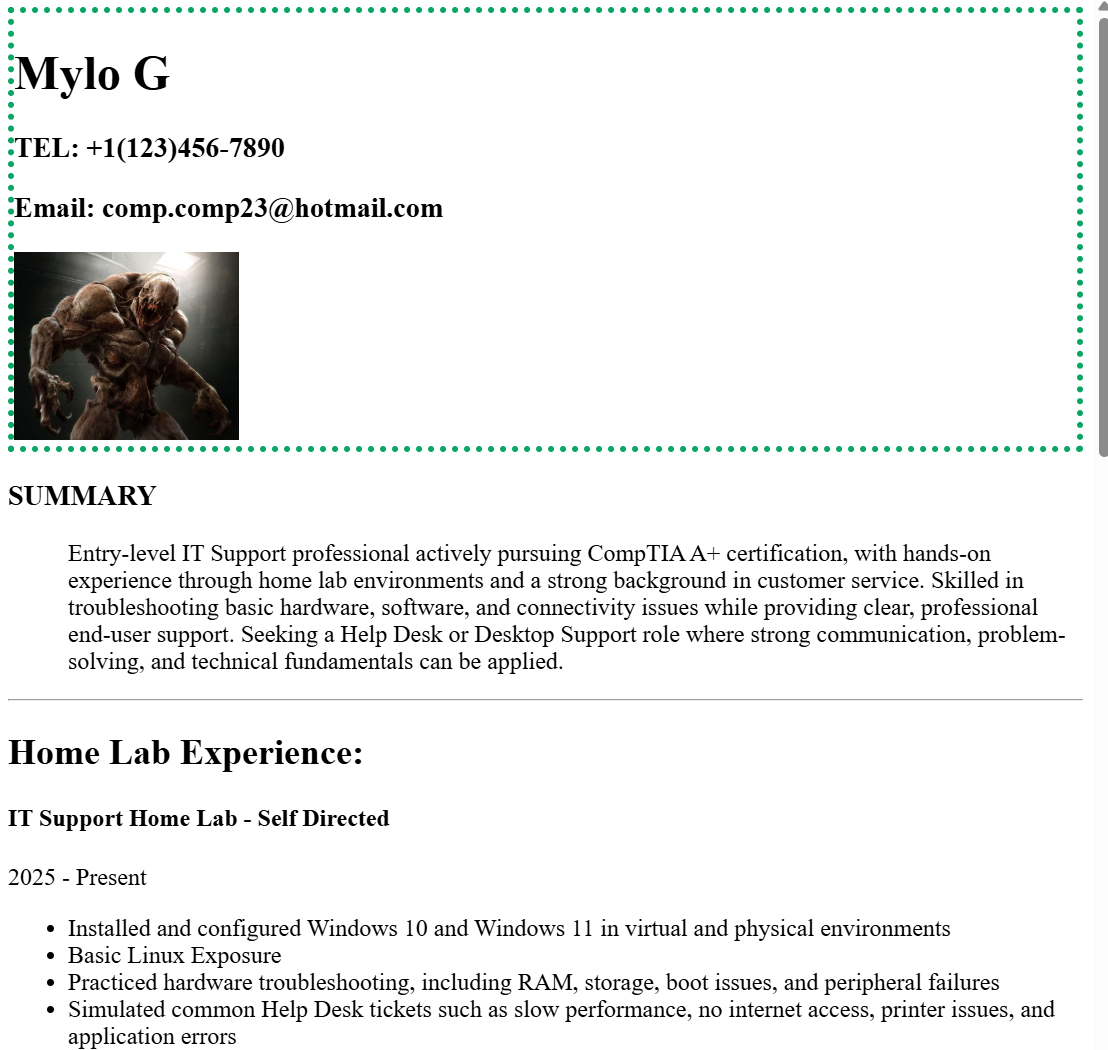
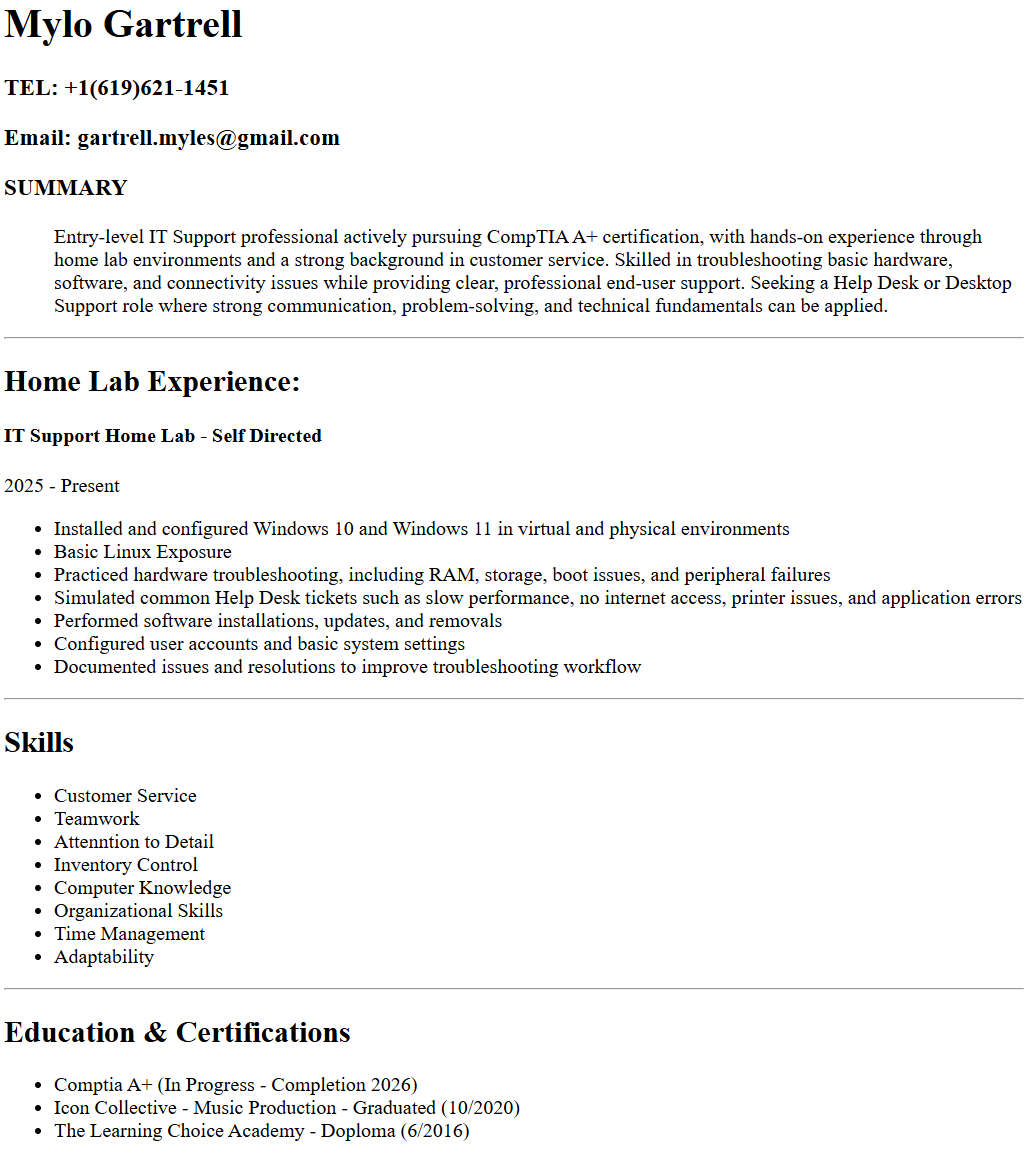
Add files via upload

diff --git a/Public/resume.html b/Public/resume.html
@@ -5,11 +5,10 @@
     <title>Resume</title>
 </head>
 <body>
-    <div style="border: 4px dotted rgb(7, 166, 100);">
-        <h1>Mylo G</h1> 
-        <h3><p>TEL: +1(123)456-7890</p></h3> 
-        <h3><p>Email: comp.comp23@hotmail.com</p></h3> 
-        <a href="https://www.youtube.com/watch?v=x_7zkQO0lPs&list=RDVeTagndUtSs&index=5"> <img src="./HellKnight.jpg" height="125" alt="HellKnight from doom 3"/> </a> 
+    <div>
+        <h1>Myles Gartrell</h1> 
+        <h3><p>TEL: +1(619)621-1451</p></h3> 
+        <h3><p>Email: gartrell.myles@gmail.com</p></h3>  
     </div>
 
     <h3>SUMMARY</h3>
@@ -17,7 +16,7 @@
     <!--Summary-->
     <ol>
         <p> 
-           Entry-level IT Support professional actively pursuing CompTIA A+ certification, with hands-on experience through home lab environments and a strong background in customer service. Skilled in troubleshooting basic hardware, software, and connectivity issues while providing clear, professional end-user support. Seeking a Help Desk or Desktop Support role where strong communication, problem-solving, and technical fundamentals can be applied.
+        Entry-level IT Support professional actively pursuing CompTIA A+ certification, with hands-on experience through home lab environments and a strong background in customer service. Skilled in troubleshooting basic hardware, software, and connectivity issues while providing clear, professional end-user support. Seeking a Help Desk or Desktop Support role where strong communication, problem-solving, and technical fundamentals can be applied.
         </p>
     </ol>
     <hr/>
@@ -59,7 +58,7 @@
     <!--Education-->
     <h2>Education & Certifications</h2>
     <ul>
-        <li>Comptia A+ (In Progress - Completion 2026)</li>
+        <li>Comptia A+ (In Progress - Completion August 2026)</li>
         <li>Icon Collective - Music Production - Graduated (10/2020)</li>
         <li>The Learning Choice Academy - Doploma (6/2016)</li>
     </ul>
@@ -88,7 +87,7 @@
         <li>Resolved order discrepancies and customer concerns</li>
         <li>Prioritized tasks to meet strict deadlines</li>
     </ul>
-     
+    
     <h4>Walmart - Deli/Bakery</h4>
     <p>
         2024 - 2024 - Oklahoma City, OK
@@ -124,7 +123,7 @@
 
     <footer>
         <a href="https://spacewalkermusic.github.io/html-portfolio/">Website</a>
-        <p>© 2026 Mylo G. All rights reserved.</p>
+        <p>© 2026 Myles G. All rights reserved.</p>
     </footer>
 </body>
 </html>

diff --git a/index.html b/index.html
@@ -1,22 +1,39 @@
-<!DOCTYPE html>
+<!doctype html>
 <html lang="en">
-    <head>
-        <meta charset="UTF-8">
-        <title>Myles Portfolio</title>
-    </head>
+  <head>
+    <meta charset="UTF-8" />
+    <title>Myles Portfolio</title>
+  </head>
 
-    <body>
-      <h1>Myles Portfolio</h1>
-      <h2>Full Stack Web Dev Practice</h2>
-      <hr />
-      <h3><a href="./Public/Movie Ranking Webpage.html">Movie Ranking Project</a></h3>
-      <img src="./assets/Images/Movie Rating Webpage.png" height="250" alt="Webpage for movie-ranking"/>
-      <h3><a href="./assets/Images/Birthday Invitation Webpage.png">Birthday Invitation Project</a></h3>
-      <img src="./assets/Images/Birthday Invitation Webpage.png" height="250" alt="Webpage for birthday-invite"/>
-      <h3><a href="./Public/resume.html">Resume</a></h3>
-      <img src="./assets/Images/Resume.png"  height="250" alt="Picture of Work in Progress Resume">
-      <hr />
-      <a href="./Public/contact.html">Contact Me</a>
-      <a href="./Public/about.html">About Me</a>
-    </body>
+  <body>
+    <h1>Myles Portfolio</h1>
+    <h2>Full Stack Web Dev Practice</h2>
+    <hr />
+    <h3>
+      <a href="./Public/Movie Ranking Webpage.html">Movie Ranking Project</a>
+    </h3>
+    <img
+      src="./assets/Images/Movie Rating Webpage.png"
+      height="250"
+      alt="Webpage for movie-ranking"
+    />
+    <h3>
+      <a href="./assets/Images/Birthday Invitation Webpage.png"
+        >Birthday Invitation Project</a
+      >
+    </h3>
+    <img
+      src="./assets/Images/Birthday Invitation Webpage.png"
+      height="250"
+      alt="Webpage for birthday-invite"
+    />
+
+    <h3>
+      <a href="./Public/resume.html">Resume</a>
+    </h3>
+    <img src="./assets/Images/Resume.png" height="250" alt="Resume" />
+    <hr />
+    <a href="./Public/contact.html">Contact Me</a>
+    <a href="./Public/about.html">About Me</a>
+  </body>
 </html>
